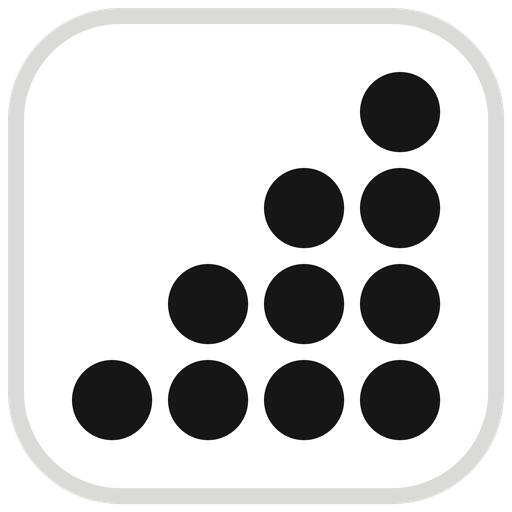
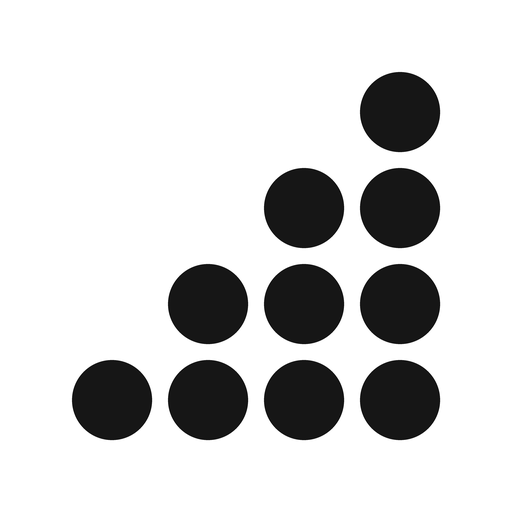
design: 파비콘 회색 테두리 제거

Changed region(s): [[0.0, 0.0, 1.0, 1.0]]

diff --git a/tools/make_icons.py b/tools/make_icons.py
@@ -17,7 +17,7 @@ def svg():
             fill = LAST_BLUE if i == len(COLS) - 1 else "#161616"
             dots.append(f'<circle cx="{14 + i * 12}" cy="{50 - k * 12}" r="5" fill="{fill}"/>')
     return ('<svg xmlns="http://www.w3.org/2000/svg" viewBox="0 0 64 64">'
-            '<rect x="1" y="1" width="62" height="62" rx="14" fill="#fff" stroke="#DADAD6" stroke-width="2"/>'
+            '<rect width="64" height="64" rx="14" fill="#fff"/>'
             + "".join(dots) + "</svg>\n")
 
 
@@ -27,7 +27,7 @@ def png(size):
     im = Image.new("RGBA", (S, S), (0, 0, 0, 0))
     d = ImageDraw.Draw(im)
     u = S / 64
-    d.rounded_rectangle([1 * u, 1 * u, 63 * u, 63 * u], radius=14 * u, fill="#FFFFFF", outline="#DADAD6", width=max(1, int(2 * u)))
+    d.rounded_rectangle([0, 0, S - 1, S - 1], radius=14 * u, fill="#FFFFFF")
     for i, n in enumerate(COLS):
         color = LAST_BLUE if i == len(COLS) - 1 else "#161616"
         for j in range(n):
